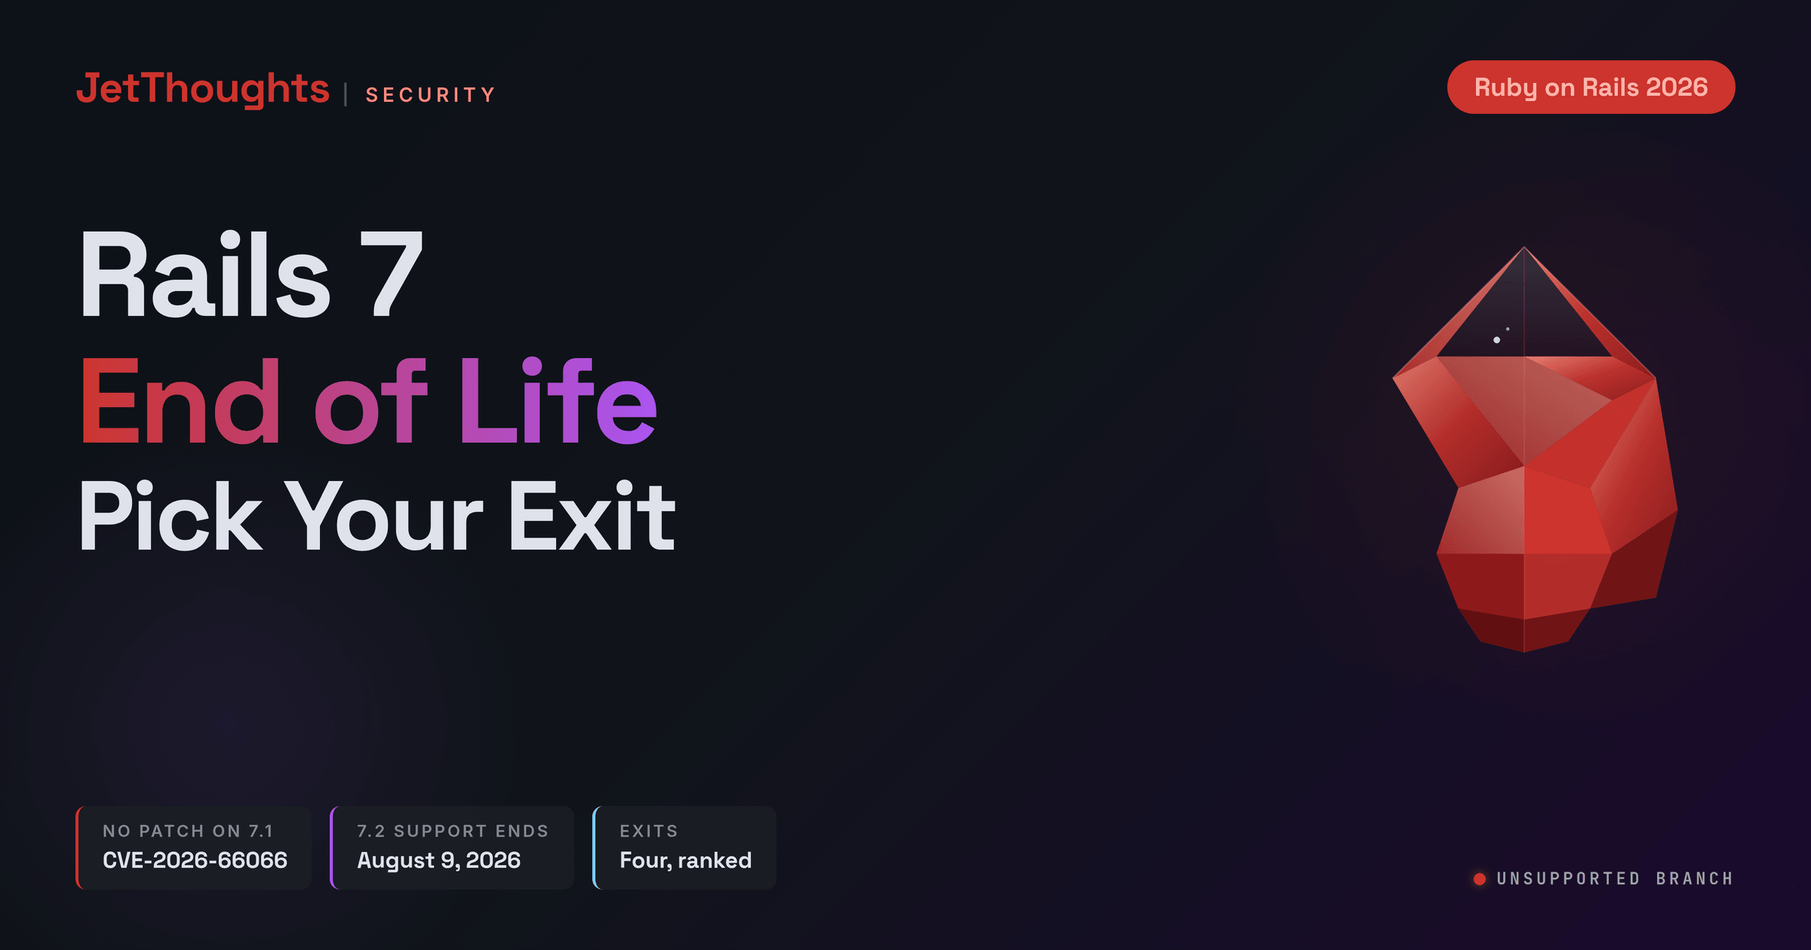
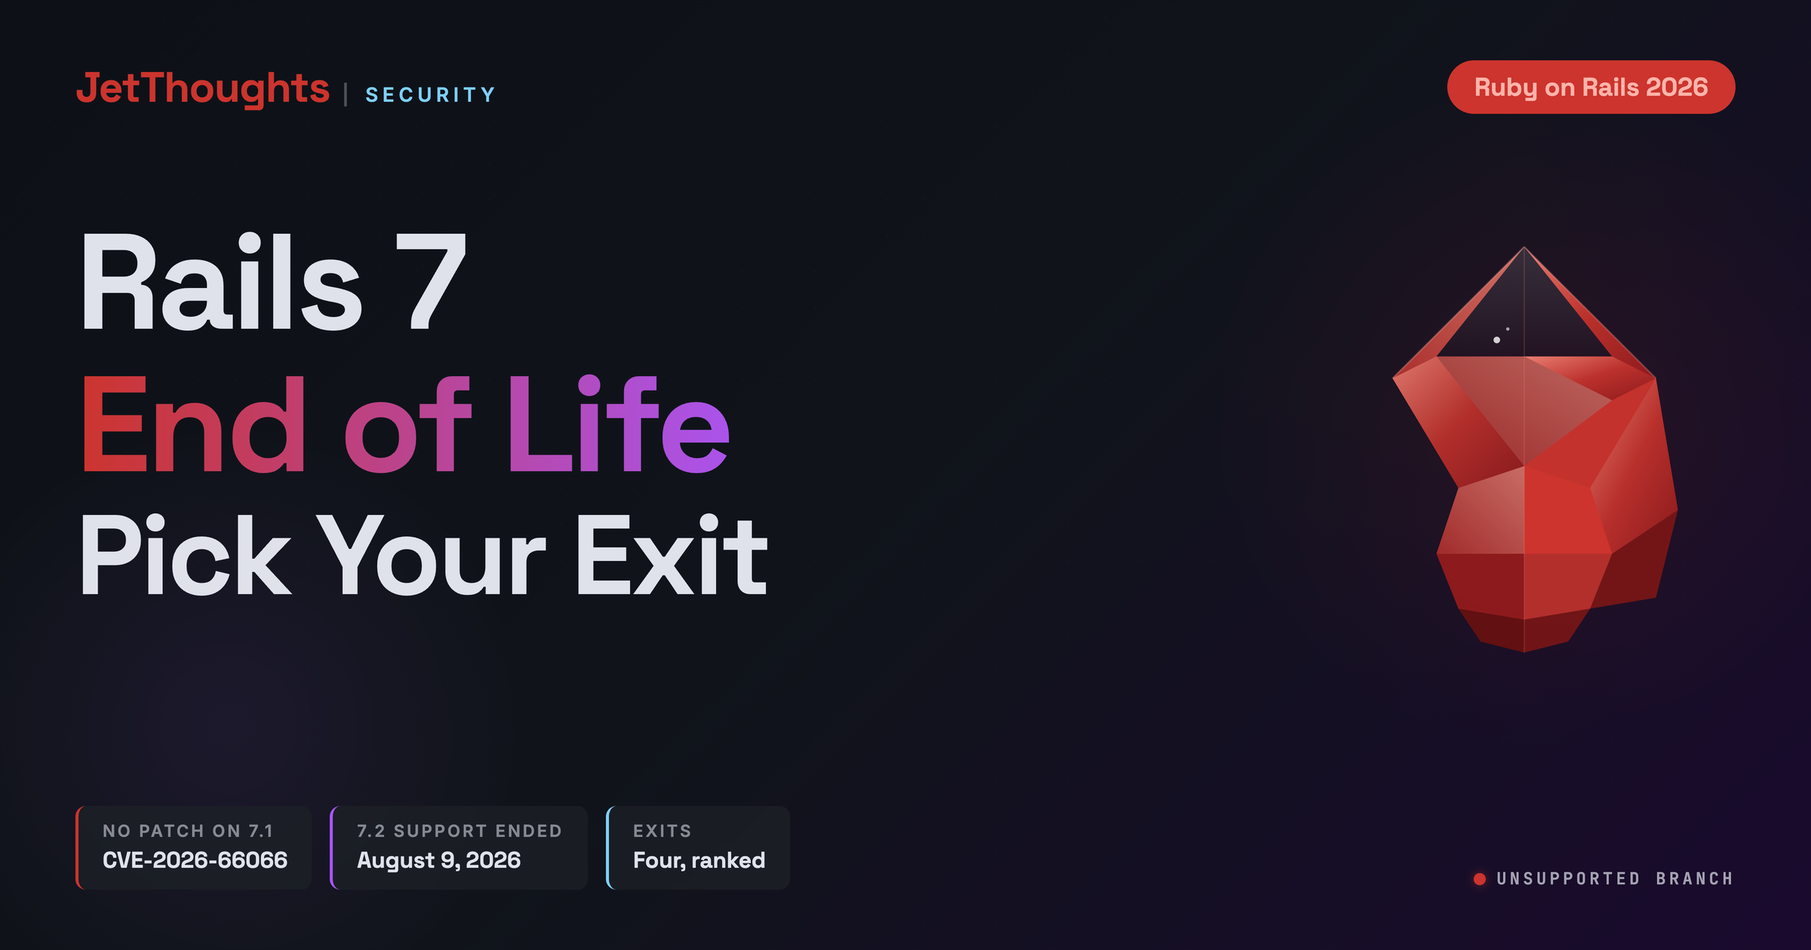
emdash/afraid-lamps-refuse-6jt16 (#451)
* fix(mermaid): hide diagram source until mermaid renders it

`<div class="mermaid">` renders its own source as article prose until
mermaid.js swaps in the SVG. baseof.html defers mermaid.run() until
document.fonts.ready, so on a slow font load the reader gets a wall of
`flowchart TD R70["Rails 7.0 - ...&nbsp;"] ... classDef dead fill:#fff5f5,...`
mid-paragraph; if Caveat never resolves it never goes away.

Reported against the Rails 7 EOL post as "images have &nbsp; on it". The
entity itself is fine - htmlLabels is on, so mermaid decodes it to a
trailing space. The bug was only ever the flash.

Site-wide and pre-existing: shipped with the first mermaid post in May 2026.
The visual suite renders after fonts settle, so screenshots were always green
and it went unreported for three months.

Trade-off: if JS fails outright the diagram is absent rather than showing its
source. Absent beats a wall of code.

* feat(blog): enforce in-body visuals, add diagrams to the August cluster

CLAUDE.md's cognitive-load gate wants a hero visual over 800 words. Nothing
enforced it: diagram_rendering_test.rb proves diagrams RENDER, not that posts
HAVE them. 25 of the 31 long posts published since 2026-04 shipped with none;
only 2 posts in all of 2026 carried an in-body visual.

bin/check-post-visuals is a ratchet, not a clean gate - 81 legacy posts are
over the line and nobody is backfilling them. It fails only when the count
[…]

diff --git a/themes/beaver/assets/css/single-post.css b/themes/beaver/assets/css/single-post.css
@@ -232,6 +232,16 @@
   -webkit-overflow-scrolling: touch;
   margin: 1.5rem 0;
 }
+/* Until mermaid.js swaps in the SVG, the div renders its own SOURCE as article
+   prose - `flowchart TD R70["Rails 7.0 - ...&nbsp;"] ... classDef dead
+   fill:#fff5f5,...`. baseof.html defers mermaid.run() until
+   document.fonts.ready, so on a slow font load that wall of code is what the
+   reader gets; if Caveat never resolves it never goes away. Reported on the
+   Rails 7 EOL post 2026-08-13 as "images have &nbsp; on it".
+   mermaid sets data-processed on each node it renders. */
+.mermaid:not([data-processed]) {
+  display: none;
+}
 .mermaid svg {
   /* Keep natural width so labels stay legible; let .mermaid parent scroll
      horizontally on narrow viewports rather than squashing text. */

diff --git a/content/blog/rails-7-eol-unpatched-security-exposure/index.md b/content/blog/rails-7-eol-unpatched-security-exposure/index.md
@@ -21,11 +21,30 @@ cover_image_alt: "Rails 7 end of life cover - no patch for CVE-2026-66066 on 7.1
 canonical_url: https://jetthoughts.com/blog/rails-7-eol-unpatched-security-exposure/
 ---
 
-On July 29 the Rails security team fixed a CVSSv4 9.5 vulnerability in Active Storage - an unauthenticated upload that reads files off your server and [may enable code execution](https://github.com/rails/rails/security/advisories/GHSA-xr9x-r78c-5hrm). Three branches got a patched release that day: 7.2, 8.0, and 8.1. One of those three, 7.2, reaches the end of its security support on August 9, 2026 - eleven days after carrying the patch, upstream stops shipping it fixes. Rails 7.1 and everything below it got nothing.
+On July 29 the Rails security team fixed a CVSSv4 9.5 vulnerability in Active Storage - an unauthenticated upload that reads files off your server and [may enable code execution](https://github.com/rails/rails/security/advisories/GHSA-xr9x-r78c-5hrm). Three branches got a patched release that day: 7.2, 8.0, and 8.1. One of those three, 7.2, reached the end of its security support on August 9, 2026 - eleven days after carrying the patch, upstream stopped shipping it fixes. Rails 7.1 and everything below it got nothing.
 
 That's the concrete version of Rails 7 end of life. Rails 7.1 had [finished its security support period](https://rubyonrails.org/2025/10/29/new-rails-releases-and-end-of-support-announcement) by October 2025, so when CVE-2026-66066 landed, the backport list stopped at 7.2.
 
 If your app sits on 7.1 or lower and processes image variants, there's no version on your branch to bump to. The fix lives on branches you're not on.
+
+```mermaid
+flowchart TD
+    R70["Rails 7.0 - no patch, dead since Apr 2025&nbsp;"]
+    R71["Rails 7.1 - no patch, dead since Oct 2025&nbsp;"]
+    R72["Rails 7.2 - patched, then dead Aug 9, 2026&nbsp;"]
+    R80["Rails 8.0 - patched, supported to Nov 2026&nbsp;"]
+    R81["Rails 8.1 - patched, supported to Oct 2027&nbsp;"]
+
+    R70 ~~~ R71 ~~~ R72 ~~~ R80 ~~~ R81
+
+    classDef dead fill:#fff5f5,stroke:#cc342d,stroke-width:2.5px,color:#1a1a1a
+    classDef soon fill:#fffbe6,stroke:#bf8a00,stroke-width:2px,color:#1a1a1a
+    classDef live fill:#f0f9f0,stroke:#2e7d32,stroke-width:2.5px,color:#1a1a1a
+
+    class R70,R71,R72 dead
+    class R80 soon
+    class R81 live
+```
 
 The CVE itself already has a [full writeup](/blog/rails-cve-2026-66066-active-storage-rce/): mechanism, detection inside a running app, the libvips 8.13 requirement, the secret rotation order. This post covers the problem that outlives this CVE. You're on an unsupported Rails, the next critical will skip you the same way, and there are four ways out.
 
@@ -72,7 +91,7 @@ Last, sort that list by whether this specific CVE can reach each app. The [CVE w
 
 Upgrade if you can. Every other exit on this list buys time and leaves the branch dead.
 
-Pick the target with the support clock in view. 7.2 is the smallest hop from 7.1, but its [security support ends August 9, 2026](https://rubyonrails.org/2025/10/29/new-rails-releases-and-end-of-support-announcement), so on its own it trades one dead branch for another; paired with the paid 7.2 LTS line in exit 2 it holds up. 8.0 holds until November 7, 2026, three months away.
+Pick the target with the support clock in view. 7.2 is the smallest hop from 7.1, but its [security support ended August 9, 2026](https://rubyonrails.org/2025/10/29/new-rails-releases-and-end-of-support-announcement), so on its own it now trades one dead branch for another; paired with the paid 7.2 LTS line in exit 2 it still holds up. 8.0 holds until November 7, 2026.
 
 8.1 is the only hop that buys real time - security fixes run to October 2027. Budget the Ruby bump into the same plan: Rails 8 needs Ruby 3.2 or newer, and a 7.1 app often isn't there yet.
 
@@ -122,6 +141,10 @@ Match each app from your fleet sweep to a row - a mixed portfolio lands in sever
 | 5.2/6.1 app, long life, no budget | Exit 2, with the renewal cost budgeted year over year |
 | Internal tool behind SSO, no public uploads | Exit 4 now, fold exit 1 into next quarter's maintenance |
 | App with a real decommission date | Exit 4, with the date and the accepted risk written down |
+
+One app you can match to a row yourself. A dozen of them across three dead branches, against a roadmap and a budget that are already committed, is a sequencing call someone senior has to make and then defend when it pushes a quarter of feature work.
+
+If nobody holds that seat today, it's the [fractional CTO](/services/fractional-cto/) work we get called into, and it starts with the same fleet sweep you just ran. Worth saying plainly: that engagement ranks the queue and owns the argument, it doesn't write your upgrade commits.
 
 ## Put the dates where you'll see them
 

diff --git a/.okf/log.md b/.okf/log.md
@@ -1234,3 +1234,62 @@ calls → pause, re-open A + C." Clock starts at first post or first send.
    names" was unsatisfiable; "2-3 past-client referral asks" survives because
    a referral source need not be the ICP. Demote, don't delete, when a weaker
    form retains value.
+
+## 2026-08-13 - Blog in-body visuals: a gate nothing enforced
+
+Audited the four posts published 2026-08-07/08 (Kamal multi-server, Lovable->Rails
+migration, Rails 7 EOL, CVE-2026-66066). The prose gates had all held: zero em
+dashes, zero bold inline-header lists, 2-8% paragraph cap breaks against the
+39-58% of the failed TDD/XP cluster, varied opener shapes, and every mechanical
+pre-publish check green.
+
+The gap was visuals. Three of four had none, and the archive said why: only 2
+posts in all of 2026 carried an in-body visual, while 25 of the 31 long posts
+published since 2026-04 carried none. CLAUDE.md's cognitive-load gate requires a
+hero visual over 800 words; nothing checked it, because
+`test/unit/diagram_rendering_test.rb` proves diagrams RENDER, not that posts HAVE
+them.
+
+**Durable rules:**
+1. **Text gates automate, visual gates rot.** Banned words and frontmatter shape
+   are greppable so they survive time pressure; "does this need a diagram" is
+   judgment and silently drops. Any gate stated only in prose will decay - give
+   it a ratchet script or expect it unenforced.
+2. **Ratchet over backfill.** 81 legacy posts are over the line and nobody is
+   backfilling them. `bin/check-post-visuals` fails only when the count RISES,
+   so new work is blocked while the backlog burns down at its own pace - same
+   shape as `bin/check-svg-floor`.
+3. **Read the OKF bundle before authoring diagrams, not after.** Skipping the
+   session-start consume meant shipping five diagrams with diamond decision
+   nodes, which `design/mermaid-theme.md` bans outright. Caught only on the
+   pre-commit maintain pass.
+4. **A cover chip is a claim with an expiry.** The Rails 7 EOL cover read "7.2
+   SUPPORT ENDS August 9, 2026" and the post was written in future tense; both
+   went stale four days after publishing. Date-bearing covers and prose need a
+   recheck whenever the date passes.
+5. **The gem never varies.** `.stitch/design.md` slot 4 is explicit - the
+   low-poly ruby is the brand throughline across ALL Ruby/Rails posts.
+   "Cover sameness" is the design working, not a defect.
+
+## 2026-08-13 - Mermaid rendered its own source as prose until fonts loaded
+
+Owner reported "images have &nbsp; on it" on the Rails 7 EOL post. Reproduced by
+stalling `document.fonts.ready`: `<div class="mermaid">` displays its raw source
+as article text - `flowchart TD R70["Rails 7.0 - ...&nbsp;"] ... classDef dead
+fill:#fff5f5,...` - because `baseof.html` defers `mermaid.run()` until fonts
+resolve and no CSS hid the div in the meantime. Fixed with one rule:
+`.mermaid:not([data-processed]) { display: none; }`.
+
+**Durable rules:**
+1. **The reported symptom is rarely the bug.** "`&nbsp;` in the image" was not an
+   entity-escaping bug - the entity decodes correctly once htmlLabels render it.
+   It was a flash-of-unrendered-source bug that happened to expose the entity.
+   Chasing the escaping would have produced a fix that changed nothing.
+2. **Deferring render needs a matching hide.** Any "wait for X, then swap the
+   DOM" pattern leaves the pre-swap content visible for the length of X. The
+   font-gated `mermaid.run()` was added to fix label CLIPPING and silently
+   created a worse visual defect on the slow path.
+3. **Site-wide and three months old.** It shipped with the first mermaid post in
+   May 2026 and nobody saw it, because it only bites on a slow font load - the
+   visual suite renders after fonts settle, so screenshots were always green.
+   A suite that waits for the happy path cannot see the unhappy one.

diff --git a/.okf/design/mermaid-theme.md b/.okf/design/mermaid-theme.md
@@ -7,6 +7,7 @@ tags: [mermaid, fonts, design]
 generated:
   by: process:okf-migrate
   at: 2026-07-13T00:00:00Z
+verified: { by: claude/opus-5, at: 2026-08-13T10:00:00Z }
 ---
 
 # Root cause worth remembering
@@ -32,6 +33,54 @@ last-character clipping. The fix in `baseof.html`:
 - Mermaid code fences render via
   `themes/beaver/layouts/_markup/render-codeblock-mermaid.html`, which sets
   `features.mermaid`.
+
+# The unrendered-source flash (fixed 2026-08-13)
+
+`<div class="mermaid">` renders its own SOURCE as article prose until
+mermaid.js swaps in the SVG - and because `baseof.html` defers `mermaid.run()`
+until `document.fonts.ready`, that window is as long as the Caveat load takes.
+If the font never resolves, the wall of `flowchart TD ... classDef dead
+fill:#fff5f5,...` never goes away.
+
+Reported by the owner as "images have `&nbsp;` on it" - the `&nbsp;` we append
+to labels is emitted by Hugo as `&amp;nbsp;`, so it sits in that raw text as a
+literal entity. The entity itself is FINE once rendered: htmlLabels is on, so
+mermaid decodes it to a trailing space. The bug was only ever the flash.
+
+Fix is one rule in `themes/beaver/assets/css/single-post.css` - mermaid stamps
+`data-processed` on each node it renders:
+
+```css
+.mermaid:not([data-processed]) { display: none; }
+```
+
+Trade-off accepted: if JS fails outright the diagram is absent rather than
+showing its source. Absent beats a wall of code in the middle of a paragraph.
+This was site-wide and pre-existing - it shipped with the first mermaid post in
+May 2026 and went unreported for three months because it only bites on a slow
+font load.
+
+# Mobile legibility: width comes from COLUMNS, not label length
+
+Mermaid wraps node labels at ~200px, so a long label never widens a diagram -
+the number of PARALLEL COLUMNS does. Three sibling nodes feeding one gate
+renders ~800px wide. Because the SVG scales to the content column, wide means
+small: `renderedPx = minFontSize * (displayedWidth / viewBoxWidth)`. At a
+390px viewport a 797px-wide diagram renders 8.88px text, under the 9px floor
+`bin/check-svg-floor` enforces for course SVGs.
+
+Measured 2026-08-13 while backfilling diagrams into the August blog cluster:
+
+| Shape | viewBox | rendered @390px |
+|---|---|---|
+| 3 siblings -> 1 gate (fan-in) | 797px | 8.88px - FAILS |
+| 2 columns (chain + branch) | 545px | 13.0px |
+| single vertical column | 272px | 20px (unscaled) |
+
+Fix by chaining vertically (`A --> B --> C`, or `~~~` for unconnected nodes),
+not by shrinking labels. Note the trade: a pure single column renders at full
+size on mobile but sits as a narrow ribbon in the 684px desktop content
+column. Two columns is usually the balance point.
 
 # Brand rule
 

diff --git a/content/blog/kamal-2-multi-server-deployment-complete-guide/index.md b/content/blog/kamal-2-multi-server-deployment-complete-guide/index.md
@@ -101,6 +101,33 @@ Once workers live on their own hosts, queue concurrency and retry behavior stop 
 
 Next, Kamal stages assets and SSL certs onto every host in a separate pass. Only then does booting start, and one detail here saves you a confused hour: non-primary roles wait. Kamal creates a health barrier, and job hosts block until the first web container reports healthy - the log says `Waiting for the first healthy web container before booting job on 10.0.0.21...`. If that first web container never turns healthy, your job hosts never boot at all. The image gets tagged `latest` only after every host is up.
 
+```mermaid
+flowchart TD
+    B["Build image once,<br/>push to registry&nbsp;"]
+    P["Pull it on every app host&nbsp;"]
+    S["Stage assets and SSL certs<br/>on every host&nbsp;"]
+    W["Boot web hosts<br/>proxy polls /up for 30s&nbsp;"]
+    BAR["First web container<br/>healthy?&nbsp;"]
+    J["Boot job hosts<br/>no proxy, so Docker HEALTHCHECK<br/>or a 7s readiness_delay&nbsp;"]
+    STUCK["Job hosts never boot&nbsp;"]
+    TAG["Tag the image latest&nbsp;"]
+
+    B --> P --> S --> W --> BAR
+    BAR -->|"yes&nbsp;"| J
+    J --> TAG
+    BAR -->|"never&nbsp;"| STUCK
+
+    classDef step fill:#faf7f2,stroke:#555,stroke-width:2px,color:#1a1a1a
+    classDef gate fill:#f5e9ff,stroke:#7c3aed,stroke-width:2.5px,color:#1a1a1a
+    classDef bad fill:#fff5f5,stroke:#cc342d,stroke-width:2.5px,color:#1a1a1a
+    classDef ok fill:#f0f9f0,stroke:#2e7d32,stroke-width:2.5px,color:#1a1a1a
+
+    class B,P,S,W,J step
+    class BAR gate
+    class STUCK bad
+    class TAG ok
+```
+
 Health checks also differ by role. Web containers get polled by kamal-proxy on `/up` once a second until `deploy_timeout` (default 30s). Job containers have no proxy, so Kamal uses the Docker `HEALTHCHECK` from your image - and if there isn't one, it waits `readiness_delay` (7 seconds) and declares victory. A worker that crashes at second 8 still counts as a successful deploy, which is worth fixing with a real `HEALTHCHECK` before you trust rolling deploys. When a deploy stalls on "target failed to become healthy", [we wrote a full debugging guide for that error](/blog/solving-kamals-target-failed-become-healthy/).
 
 One more thing lives in exactly one place: the deploy lock, held over SSH on the primary host only. If the primary host is down, you can't take the lock, which means you can't deploy the healthy hosts either. [2.12.0](https://github.com/basecamp/kamal/releases/tag/v2.12.0) added `--lock-wait` for the other lock problem - two CI runs racing each other - which pairs well with [deploying from GitHub Actions](/blog/automate-your-deployments-with-kamal-2-github-actions-devops-development/).

diff --git a/content/blog/migrate-lovable-replit-app-to-rails/index.md b/content/blog/migrate-lovable-replit-app-to-rails/index.md
@@ -46,6 +46,32 @@ Here's how it usually splits:
 
 One decision drives everything else. If the schema is sane and the data is real, you're doing a backend transplant and keeping the UI. If the schema is a mess and the "logic" is a thin wrapper over AI-generated CRUD, you're rebuilding, and the old app is a spec, not a codebase.
 
+```mermaid
+flowchart TD
+    START["Dump the schema,<br/>read it before deciding&nbsp;"]
+    Q["Schema sane,<br/>data real?&nbsp;"]
+    T["Backend transplant:<br/>port schema and rows,<br/>point the React UI at Rails&nbsp;"]
+    R["Rebuild in Rails:<br/>load the rows, treat the<br/>old app as the spec&nbsp;"]
+    BOTH["Either way you rebuild<br/>auth and payments&nbsp;"]
+
+    START --> Q
+    Q -->|"yes&nbsp;"| T
+    Q -->|"no, it is thin CRUD&nbsp;"| R
+    T --> BOTH
+    R --> BOTH
+
+    classDef step fill:#faf7f2,stroke:#555,stroke-width:2px,color:#1a1a1a
+    classDef gate fill:#f5e9ff,stroke:#7c3aed,stroke-width:2.5px,color:#1a1a1a
+    classDef keep fill:#f0f9f0,stroke:#2e7d32,stroke-width:2.5px,color:#1a1a1a
+    classDef redo fill:#fff5f5,stroke:#cc342d,stroke-width:2.5px,color:#1a1a1a
+
+    class START step
+    class Q gate
+    class T keep
+    class R redo
+    class BOTH redo
+```
+
 We wrote a longer field guide to that call in [the vibe coding crisis: AI code debt](/blog/vibe-coding-crisis-ai-code-debt/). Read the schema before you decide. Everything downstream forks here.
 
 This is also the point where you decide whether to run the migration yourself. If your team reads Postgres comfortably and has shipped auth before, keep going. If not, [our vibe code rescue service](/services/vibe-code-rescue/) opens with a 48-hour audit and quotes a fixed price from it.

diff --git a/content/blog/rails-cve-2026-66066-active-storage-rce/index.md b/content/blog/rails-cve-2026-66066-active-storage-rce/index.md
@@ -43,6 +43,30 @@ The advisory sets three conditions, and together they are the whole test:
 2. The app accepts **image uploads from untrusted users**.
 3. The environment lacks protection against unfuzzed libvips operations: **libvips older than 8.13**, or 8.13+ with the untrusted-operation block left off.
 
+```mermaid
+flowchart TD
+    C1["Variant processor is vips?&nbsp;"]
+    C2["Untrusted image uploads?&nbsp;"]
+    C3["libvips under 8.13?&nbsp;"]
+    YES["Exposed. Run the runbook,<br/>rotate the secrets.&nbsp;"]
+    NO["Not reachable by this CVE.<br/>Patch on your next deploy.&nbsp;"]
+
+    C1 -->|"yes&nbsp;"| C2
+    C2 -->|"yes&nbsp;"| C3
+    C3 -->|"yes&nbsp;"| YES
+    C1 -->|"no&nbsp;"| NO
+    C2 -->|"no&nbsp;"| NO
+    C3 -->|"no&nbsp;"| NO
+
+    classDef gate fill:#f5e9ff,stroke:#7c3aed,stroke-width:2.5px,color:#1a1a1a
+    classDef bad fill:#fff5f5,stroke:#cc342d,stroke-width:2.5px,color:#1a1a1a
+    classDef ok fill:#f0f9f0,stroke:#2e7d32,stroke-width:2.5px,color:#1a1a1a
+
+    class C1,C2,C3 gate
+    class YES bad
+    class NO ok
+```
+
 The advisory closes one door explicitly: "Generating variants is not a separate requirement." Grepping the codebase for `.variant(` calls and finding none does not clear you. If the three conditions hold, you're exposed.
 
 Two of the three are checkable by command. Run these inside the running app; laptop versions prove nothing.

diff --git a/docs/workflows/blog-pipeline.md b/docs/workflows/blog-pipeline.md
@@ -403,6 +403,12 @@ Before flipping draft: false or before any LinkedIn/external promotion drives tr
 6. dev.to import ICP gate (only if `source: dev_to`):
    - [ ] Audit the post against `docs/90-99-content-strategy/strategy-analysis/90.10-icp-primary-website-target.md`. If 80+/100 AI-feel or off-thesis, rewrite for the ICP-E or flip to `draft: true`.
 
+7. In-body visual (BLOCKING for posts over 800 words):
+   - [ ] `ruby bin/check-post-visuals` exits 0. The floor is a ratchet - a new post with no diagram/image pushes the count over it and fails.
+   - [ ] Measure the diagram at 390px before committing: `renderedPx = minFontSize * (displayedWidth / viewBoxWidth)` must be >= 9 (same floor `bin/check-svg-floor` applies to course SVGs). Caught 2026-08-13: a first-draft LR flowchart measured 8.88px and was illegible on mobile.
+   - [ ] Width is driven by PARALLEL COLUMNS, not label length - mermaid wraps labels at ~200px. Three sibling nodes feeding one gate renders ~800px wide and fails the floor. Chain them vertically (`A --> B --> C`, or `~~~` for unconnected nodes) to stay under ~550px.
+   - [ ] The diagram earns its place: it shows something the surrounding prose and tables do NOT already state. A diagram restating an adjacent table is decorative - delete it.
+
 If any of the above checks fail, fix before proceeding to STEP 7.
 
 STEP 7 — VALIDATE

diff --git a/.okf/build/test-gates.md b/.okf/build/test-gates.md
@@ -17,6 +17,7 @@ verified: { by: claude/fable-5, at: 2026-08-01T11:30:00Z }
 | `bin/rake test:critical` | Critical Minitest suite (34 runs / 53 screenshots), ~81s host / ~46s Docker since the 2026-08-01 skip_area fix | At component/task milestones and before every commit outside sprint micro-commit trains |
 | `bin/test` | Visual regression on the host (baselines in `macos/` on a Mac; on Linux, comparable to `linux/` when run through `bin/setup-test-env`'s pinned stack) | ONCE at PR prep (branch head, before `gh pr create`) or on Paul's explicit confirmation - NOT per commit (Paul 2026-07-31: qtest is the routine gate) |
 | `bin/dtest` | Same suite in Linux/Docker (baselines in `linux/`) - CI runs Linux | Same trigger as bin/test; a PR must never open without this leg (green-locally / red-in-CI otherwise) |
+| `bin/check-post-visuals` | Ratchet: counts blog posts over 800 words with no mermaid/SVG/image. Fails when the count exceeds `FLOOR` (78 as of 2026-08-13) | Before publishing any post. Added 2026-08-13 - `diagram_rendering_test.rb` only proves diagrams RENDER, nothing proved posts HAVE them, and 25 of the 31 long posts published since 2026-04 shipped with none |
 
 `bin/qtest` page keys mirror `themes/beaver/assets/css/pages/*.css` basenames
 AND `critical/<name>-critical.css` basenames - the two sets differ (e.g.

diff --git a/docs/projects/2607-vibe-code-rescue/backlog.md b/docs/projects/2607-vibe-code-rescue/backlog.md
@@ -45,6 +45,7 @@ Strategy/gates/Paul's desk live in [`operation-runbook.md`](operation-runbook.md
 | T3 | Gmail warm-source pass (Paul consent) → warm rows | Blocked-on-Paul (optional, non-blocking) |
 | T8 | Discovery kit (call script + audit template) | ✓ Done (`rescue-sprint/discovery-kit.md`) |
 | T9 | Objection + FAQ + follow-up bank → `rescue-sprint/objection-followup-bank.md` | **Ready** |
+| T10 | Split business/strategy docs out of the public repo - [#449](https://github.com/jetthoughts/jetthoughts.github.io/issues/449). Touches this project's `20-29-strategy/` files, so 2607 tracks it. | Blocked-on-Paul (org decision, not a refactor) |
 
 ---
 
